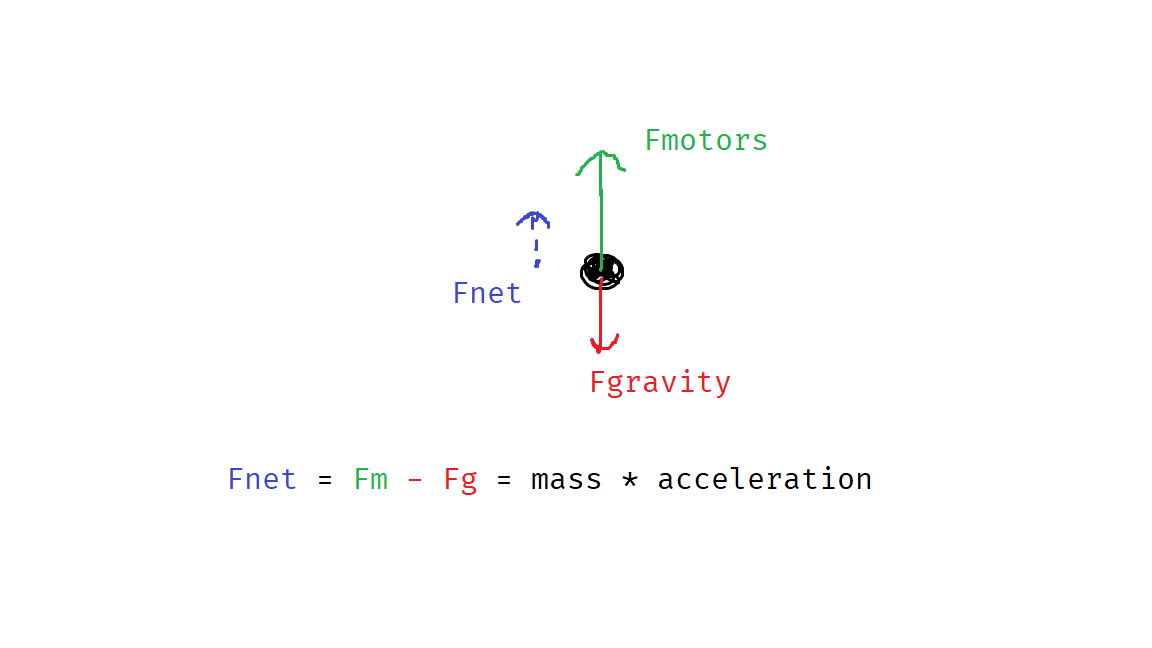
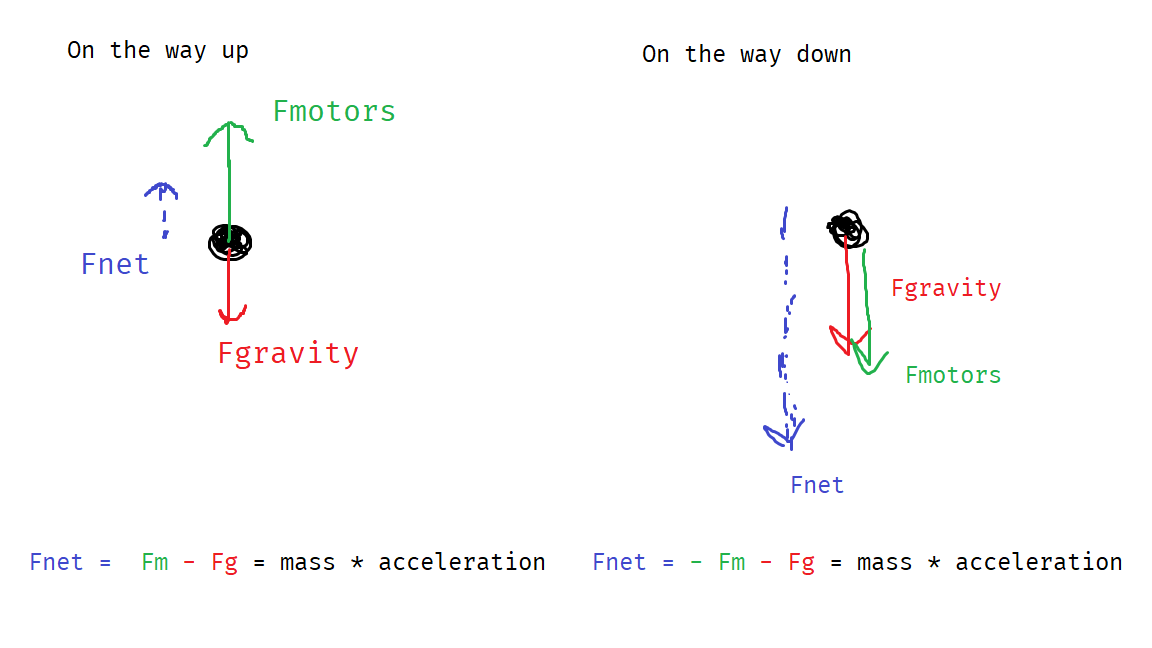
Elastic free body diagram theory

diff --git a/docs/articles/elastics.md b/docs/articles/elastics.md
@@ -5,3 +5,24 @@ Motors are only half the story.
 Elastics are **essential** on systems that move against gravity. Consider the difference between a the forces on a lift on the way up, and on the way down.
 
 ![elasticpic](../_media/fnet.png)
+
+These are *free body diagrams*. They represent all the forces acting on the lift, as if they were all acting on a point.
+
+`Fnet` stands for *net force*, or the overall sum of the forces. According to *Newton's Second Law*:
+```
+Fnet = mass * acceleration
+```
+From this equation, the lower `Fnet` is, the less acceleratios, AKA the lift isn't as responsive and fast.
+
+Now, in  the upward direction, Fnet is smaller (gravity fights the motors), so acceleration is smaller. In the downward direction, Fnet is larger (gravity assists the motors) so acceleration is larger.
+
+This makes sense: on the way down, the lift falls, but on the way up, it 'fights gravity'.
+
+This is a problem. There is a huge imbalance between the upward and downward motion of the lift. This is why we need elastics!
+
+See the elastic case:
+
+![elasticpic](../_media/fnet2.png)
+
+Notice how the elastic force counteracts gravity, so `Fnet` doesn't change as much when the lift changes from going upward to downward.
+

diff --git a/docs/articles/ROBOTC/00-programming-roadmap.md b/docs/articles/ROBOTC/00-programming-roadmap.md
@@ -90,7 +90,7 @@ Tasks *are* ROBOTC specific.
   - know how to make a PD controller.
   - know how to make a PID controller.
 
-### Working with Fultiple Files
+### Working with Multiple Files
 *medium*
 
   - using the contents of file A from file B.
@@ -101,7 +101,7 @@ Tasks *are* ROBOTC specific.
 *advanced*
 
   - what is a struct?
-  - when would 
+  - when would a struct be useful in designing programs?
 
 ### Preprocessor
 *advanced*
